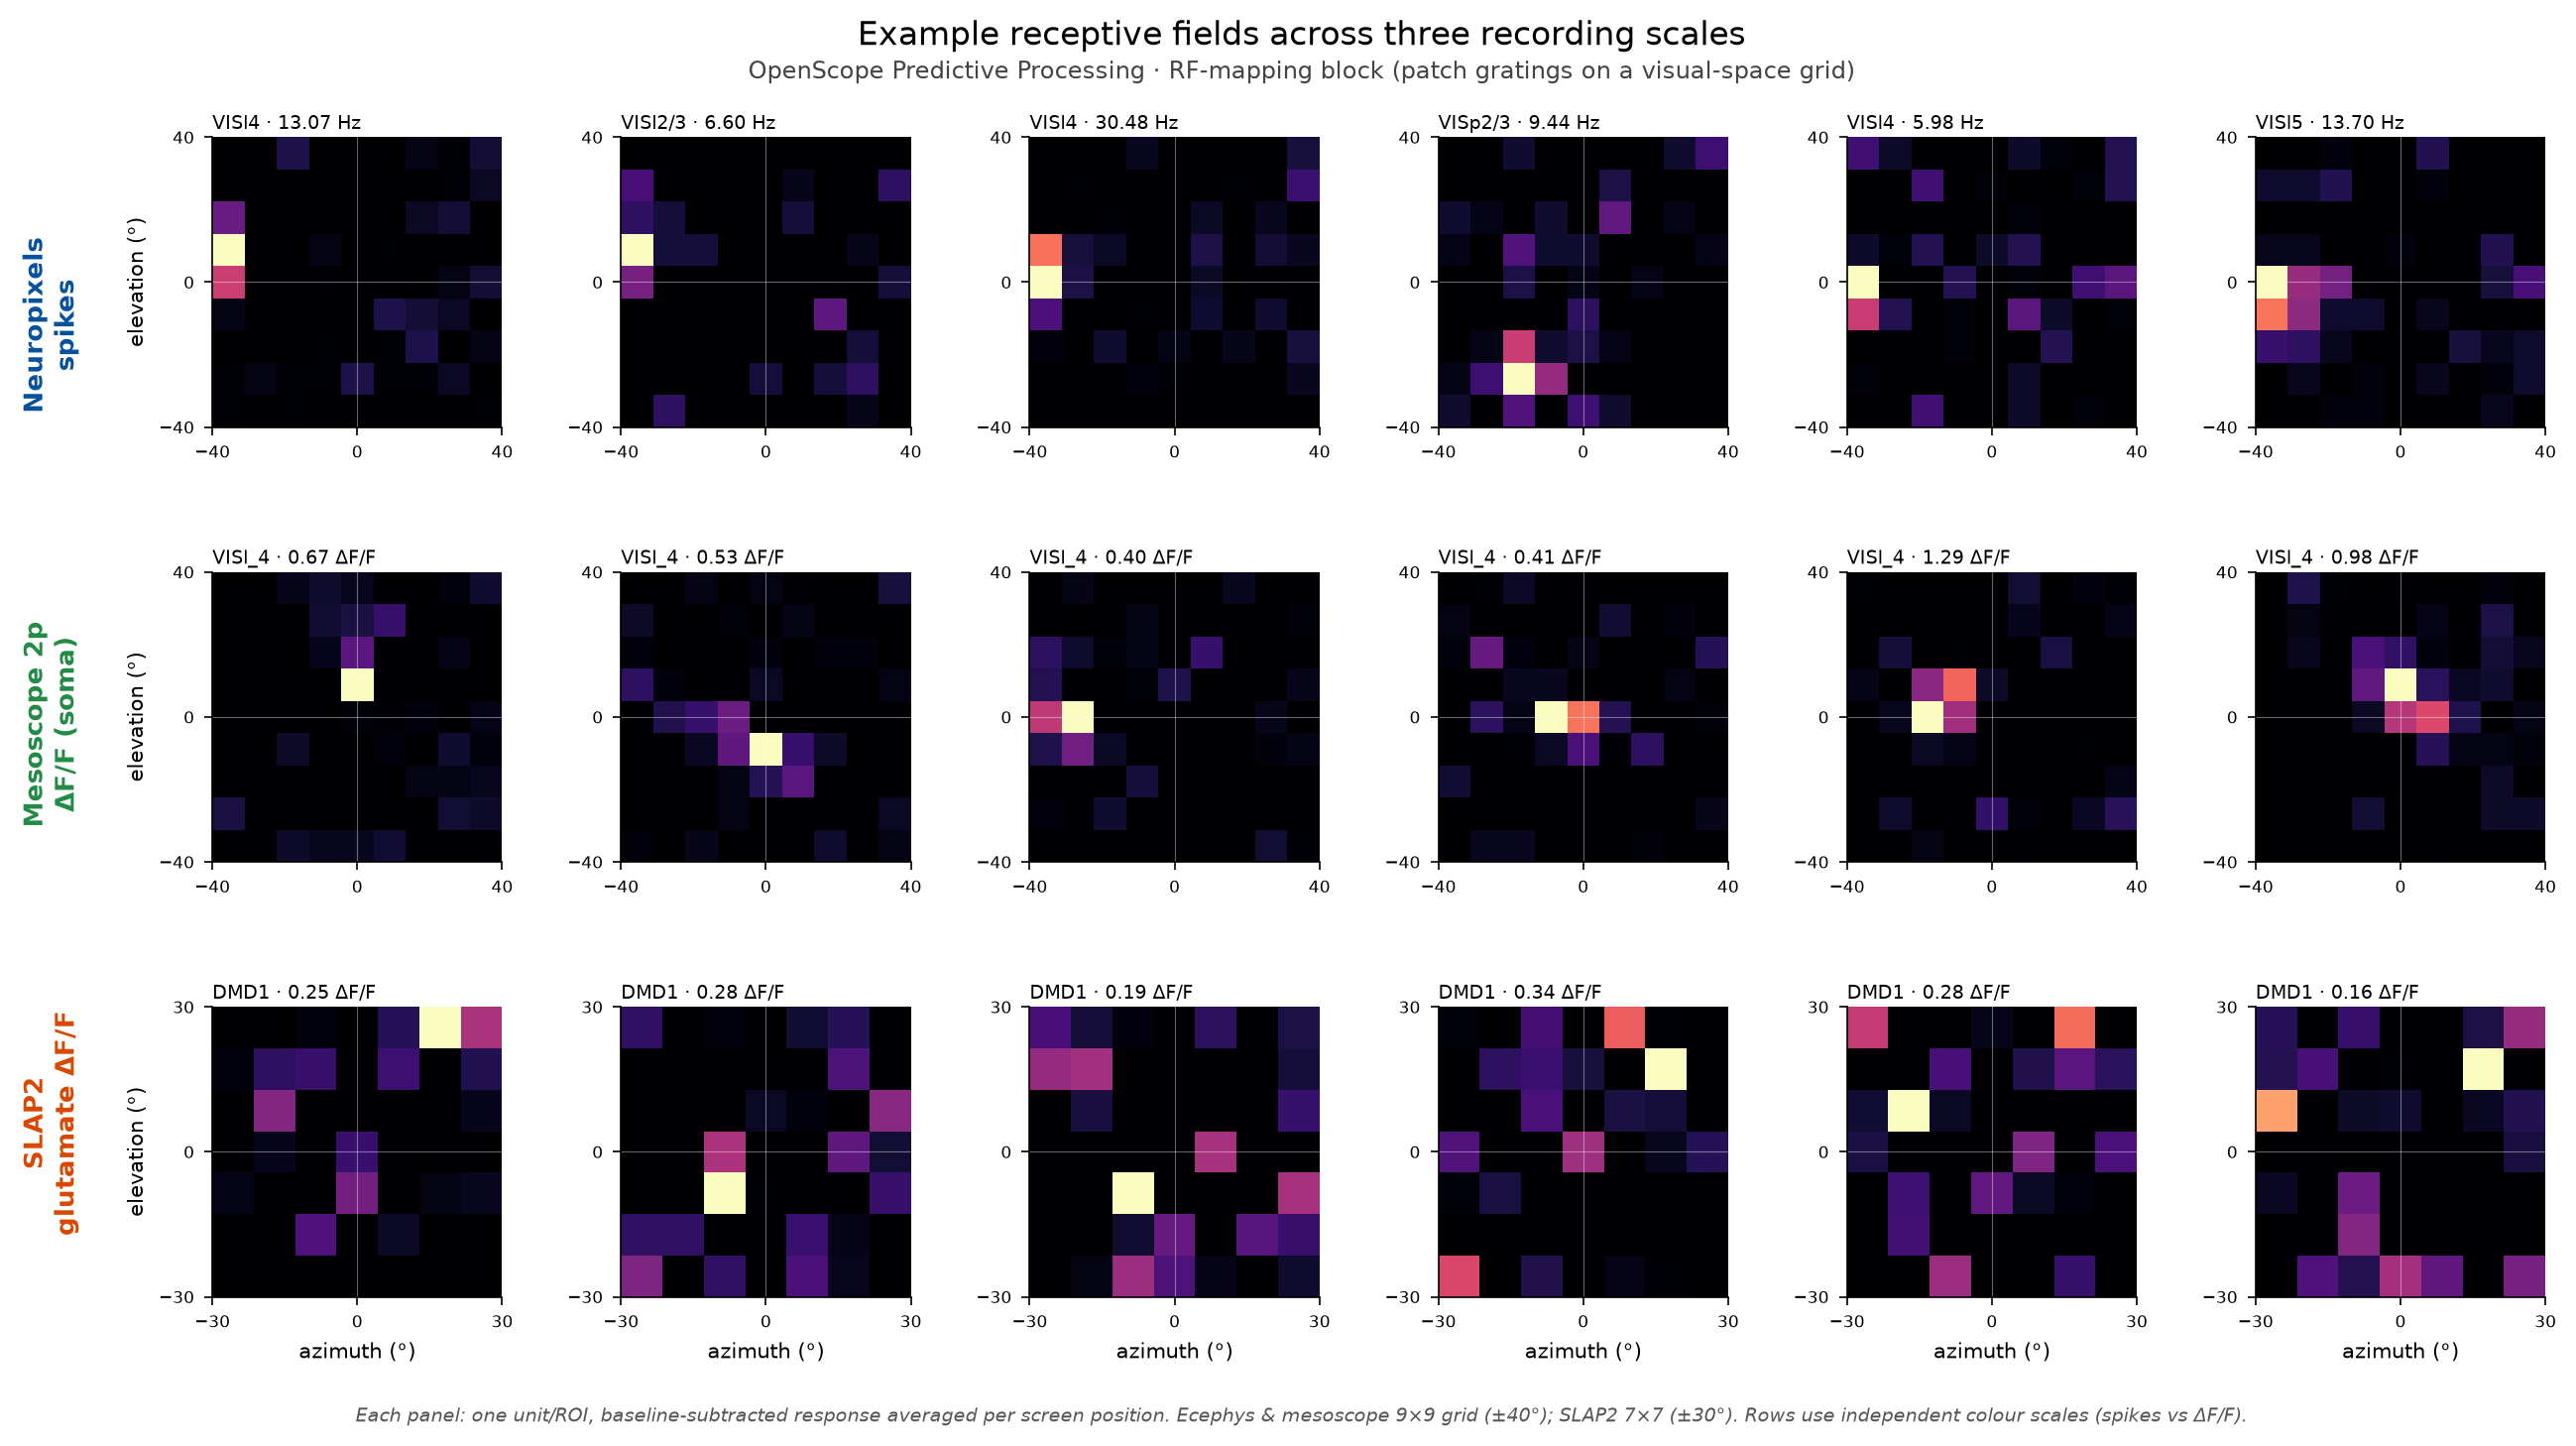
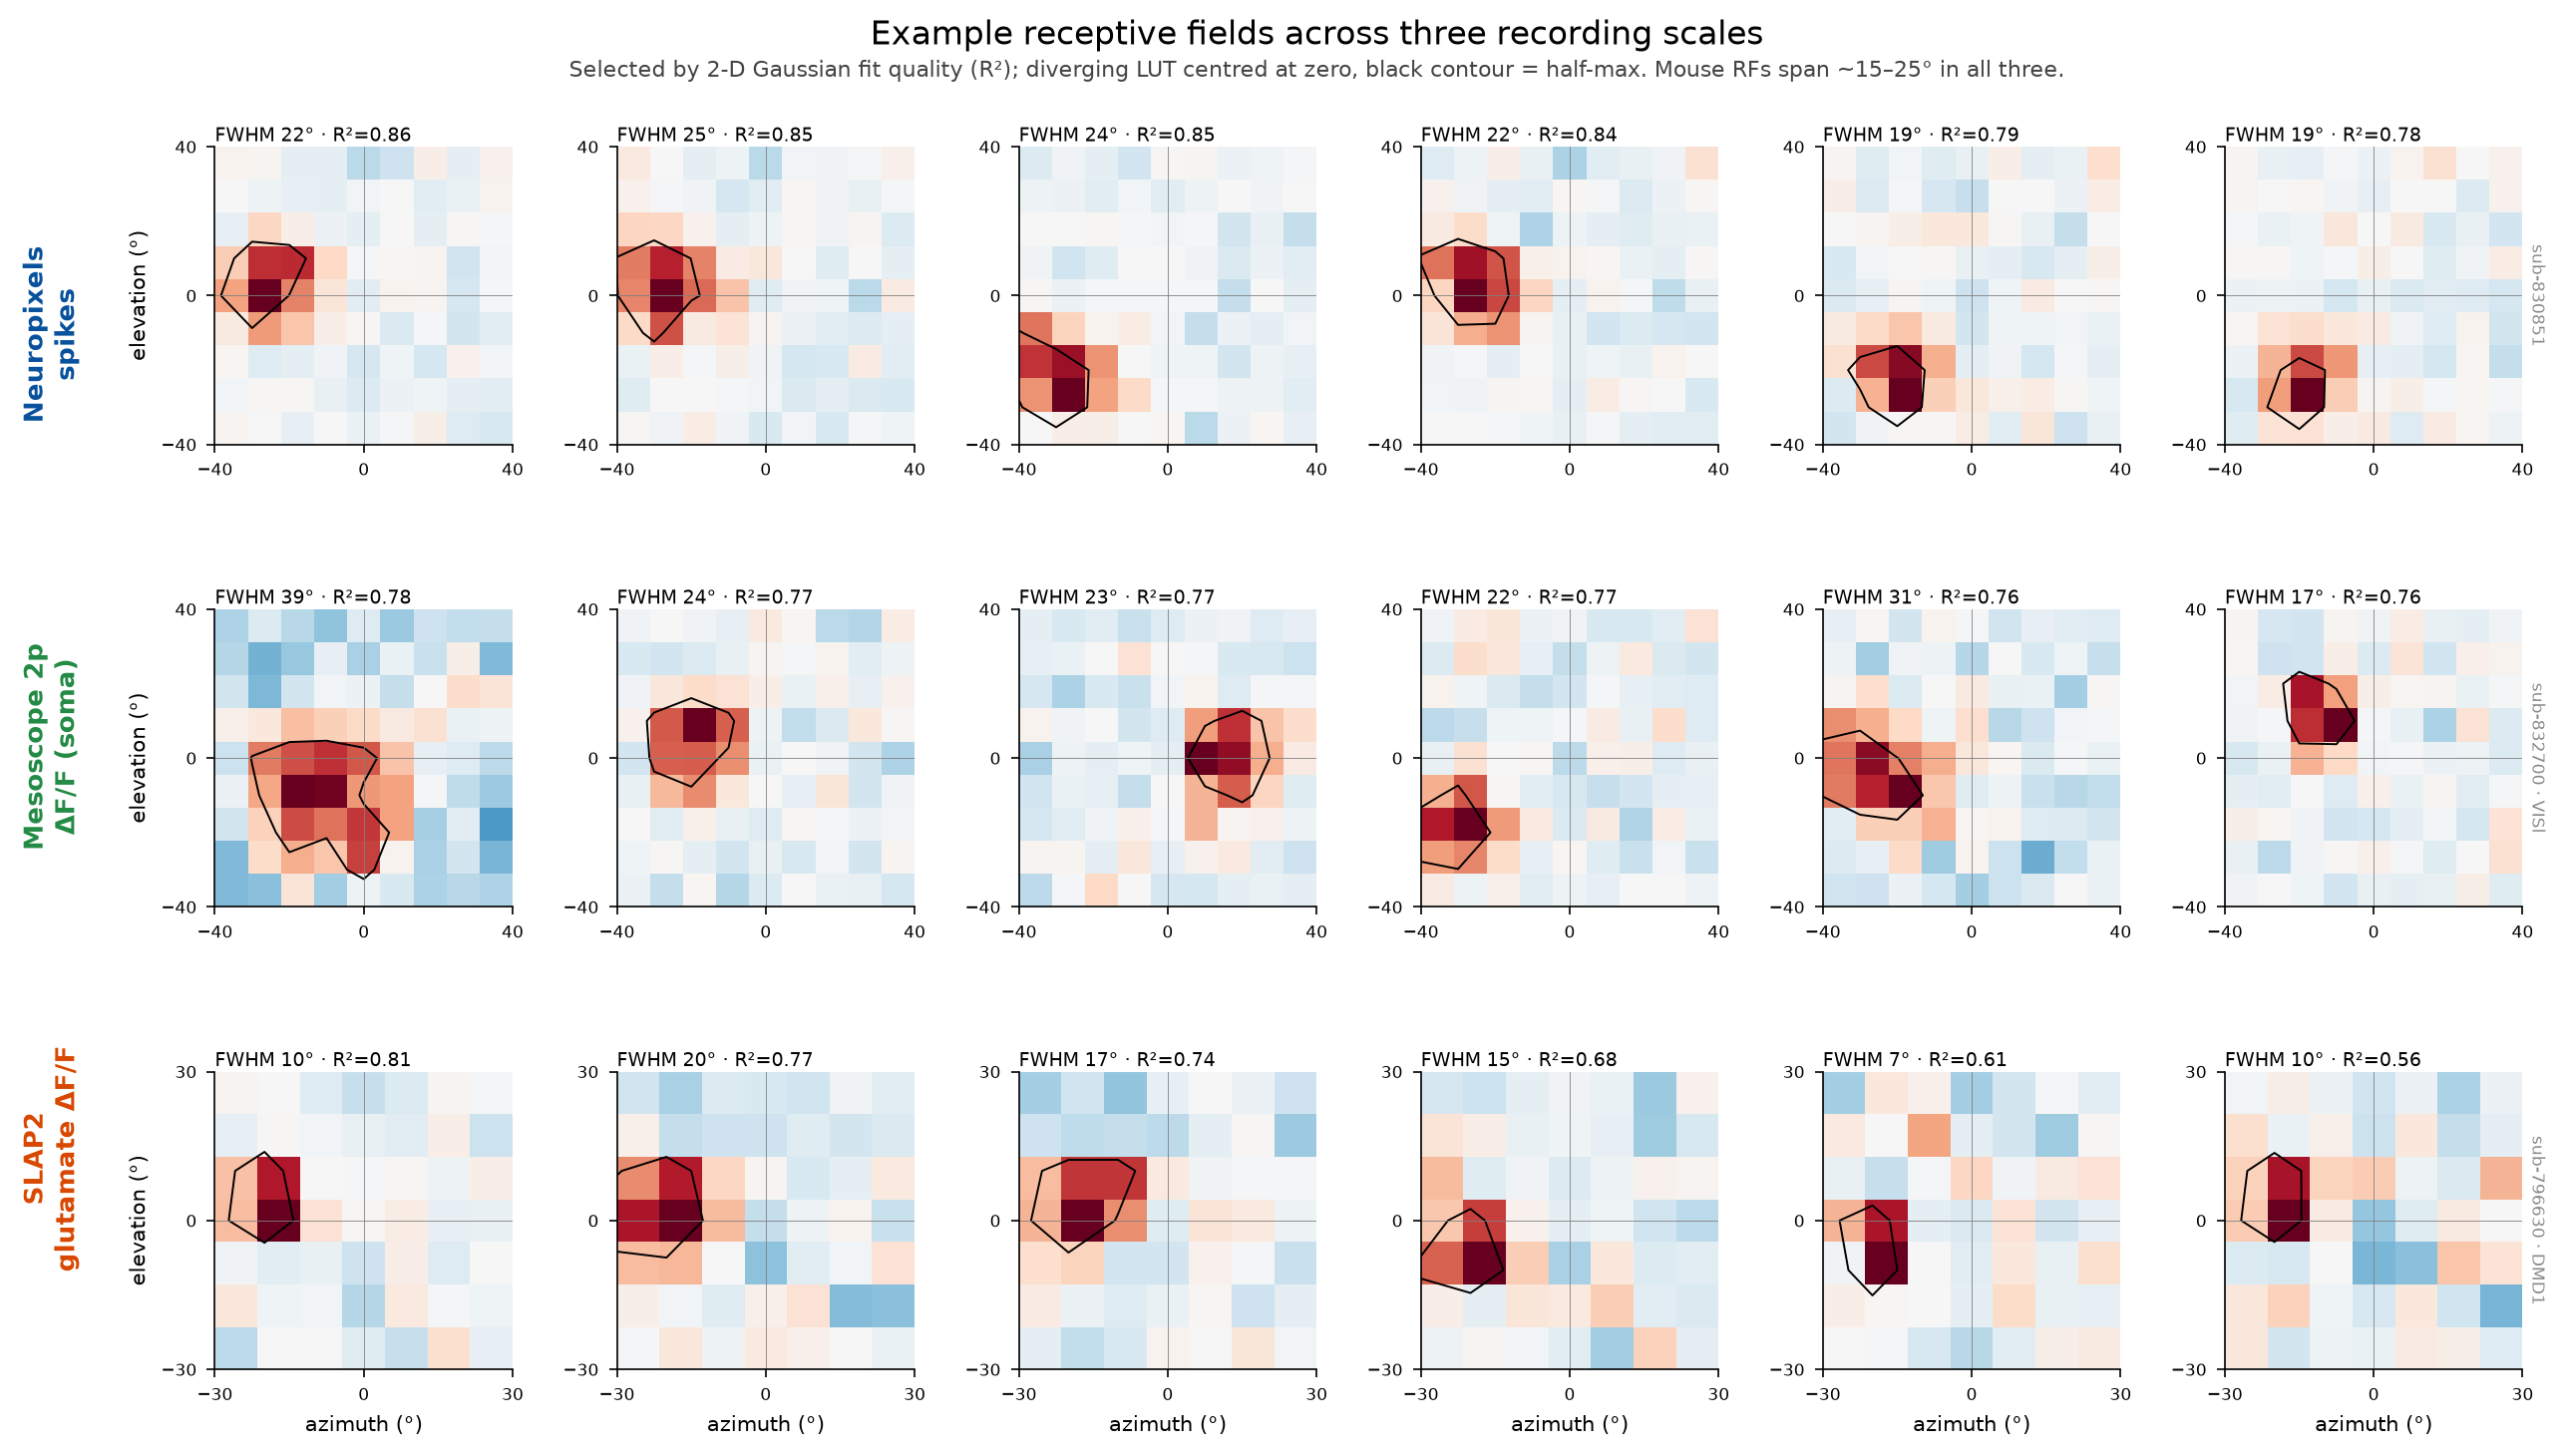
Correct RF example selection: Gaussian-fit + zero-centred LUT + best SLAP2 session
The prior RF gallery looked artificially point-like from two compounding issues:
(1) a peak/std 'SNR' ranking biased toward spiky one-pixel maps, (2) a vmin=0 LUT
crushing the graded surround. Fixed both: select by 2-D Gaussian fit quality (R2),
render with a diverging zero-centred colour map + half-max contour, annotate FWHM.
Fitted widths are now mouse-appropriate (median ~25/18/15 deg for ece/meso/SLAP2).
Also switched SLAP2 to its best RF-yield session (sub-796630 2025-10-01 DMD1, 15
clean RFs) after finding the original sub-801381 2025-06-05 session had only one.
Also corrects overstated permutation p-value precision in the significance text.

diff --git a/README.md b/README.md
@@ -57,13 +57,18 @@ glutamate ΔF/F (SLAP2):
 
 ![Example receptive fields across three recording scales](figures/rf_examples_three_modalities.png)
 
-Each panel is one unit/ROI (baseline-subtracted response averaged per screen
-position); rows use independent colour scales (spike rate vs. ΔF/F are not
-directly comparable in magnitude). Reproduce this figure end-to-end in Colab:
+Each panel is one unit/ROI, selected by **2-D Gaussian fit quality** (R²), with a
+diverging colour map centred at zero and a black half-maximum contour; titles give
+the fitted RF width (FWHM). The fitted widths are mouse-appropriate — median FWHM
+≈ 25° (ecephys), 18° (mesoscope), 15° (SLAP2, best session). We deliberately do
+**not** rank by peak/std "SNR" (which is biased toward spiky one-pixel maps) nor
+render with `vmin=0` (which crushes the graded surround to black) — both make real
+RFs look artificially point-like. Reproduce end-to-end in Colab:
 [`notebooks/rf_sanity_check_three_modalities.ipynb`](notebooks/rf_sanity_check_three_modalities.ipynb).
-The notebook also documents two SLAP2 gotchas it took to get there — the per-DMD
-onset offset, and DMD1's compressed timestamps (rebuilt over the simultaneous
-DMD2 acquisition span).
+The notebook also documents SLAP2 gotchas — the per-DMD onset offset, a compressed
+DMD timebase (rebuilt over the other DMD's simultaneous span), and strong
+session-to-session variation in RF yield (pick a good session before judging the
+modality).
 
 **Are these RFs real, or just the noise we selected for?** Since the examples are
 the top units by SNR, we test them against three noise controls: split-half